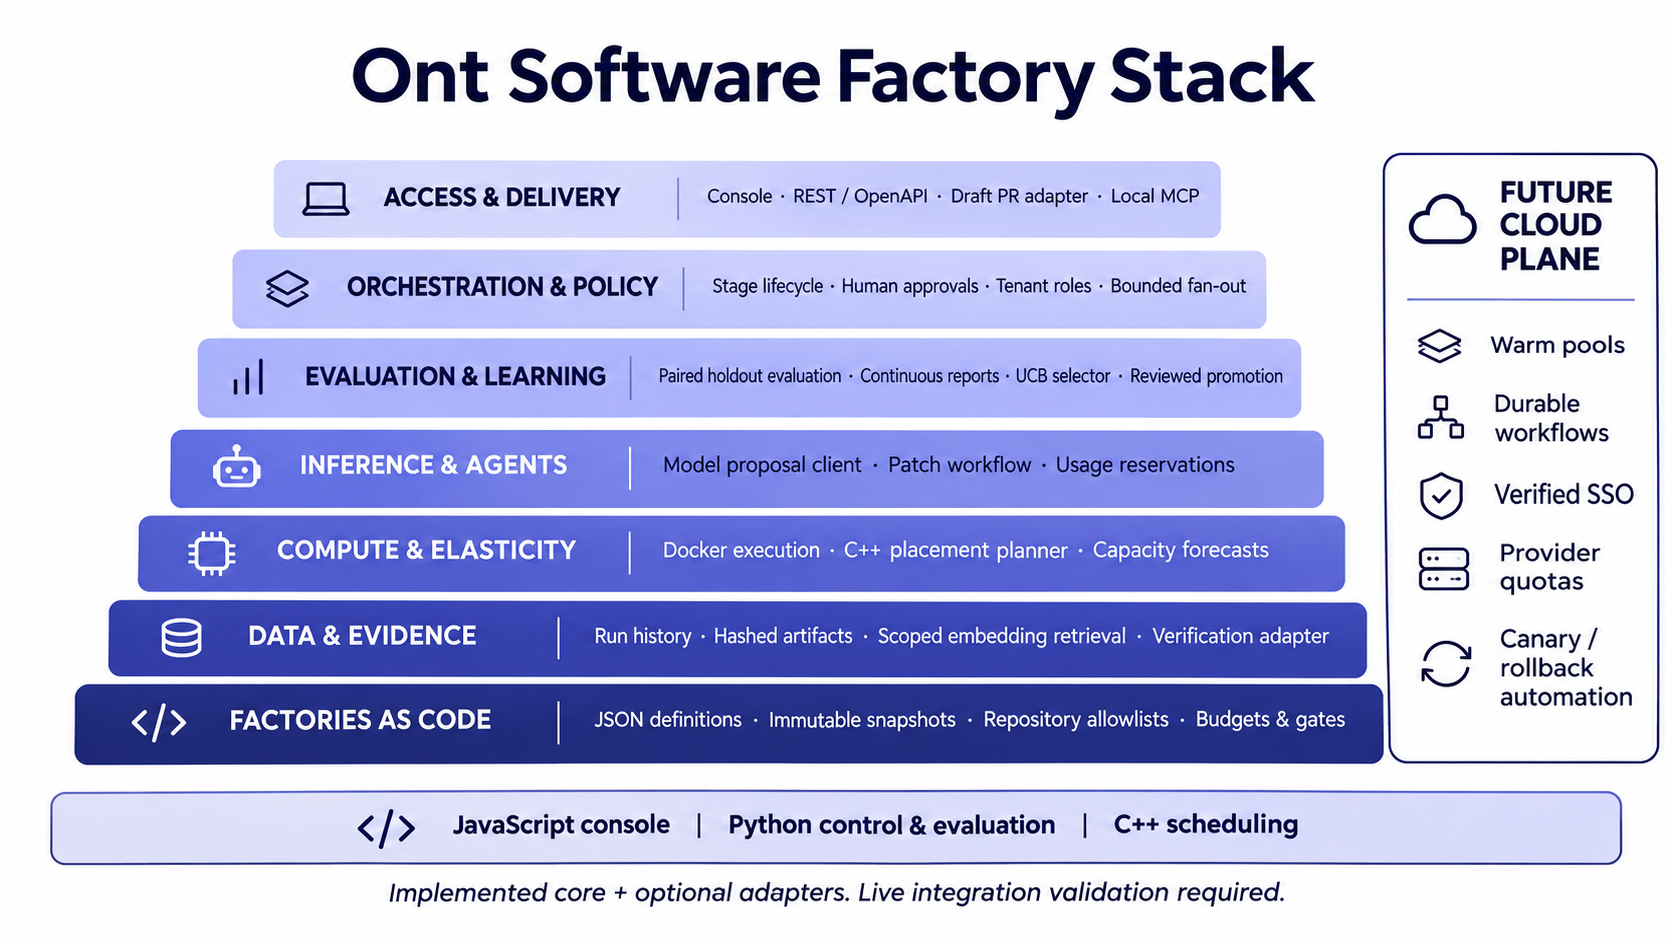
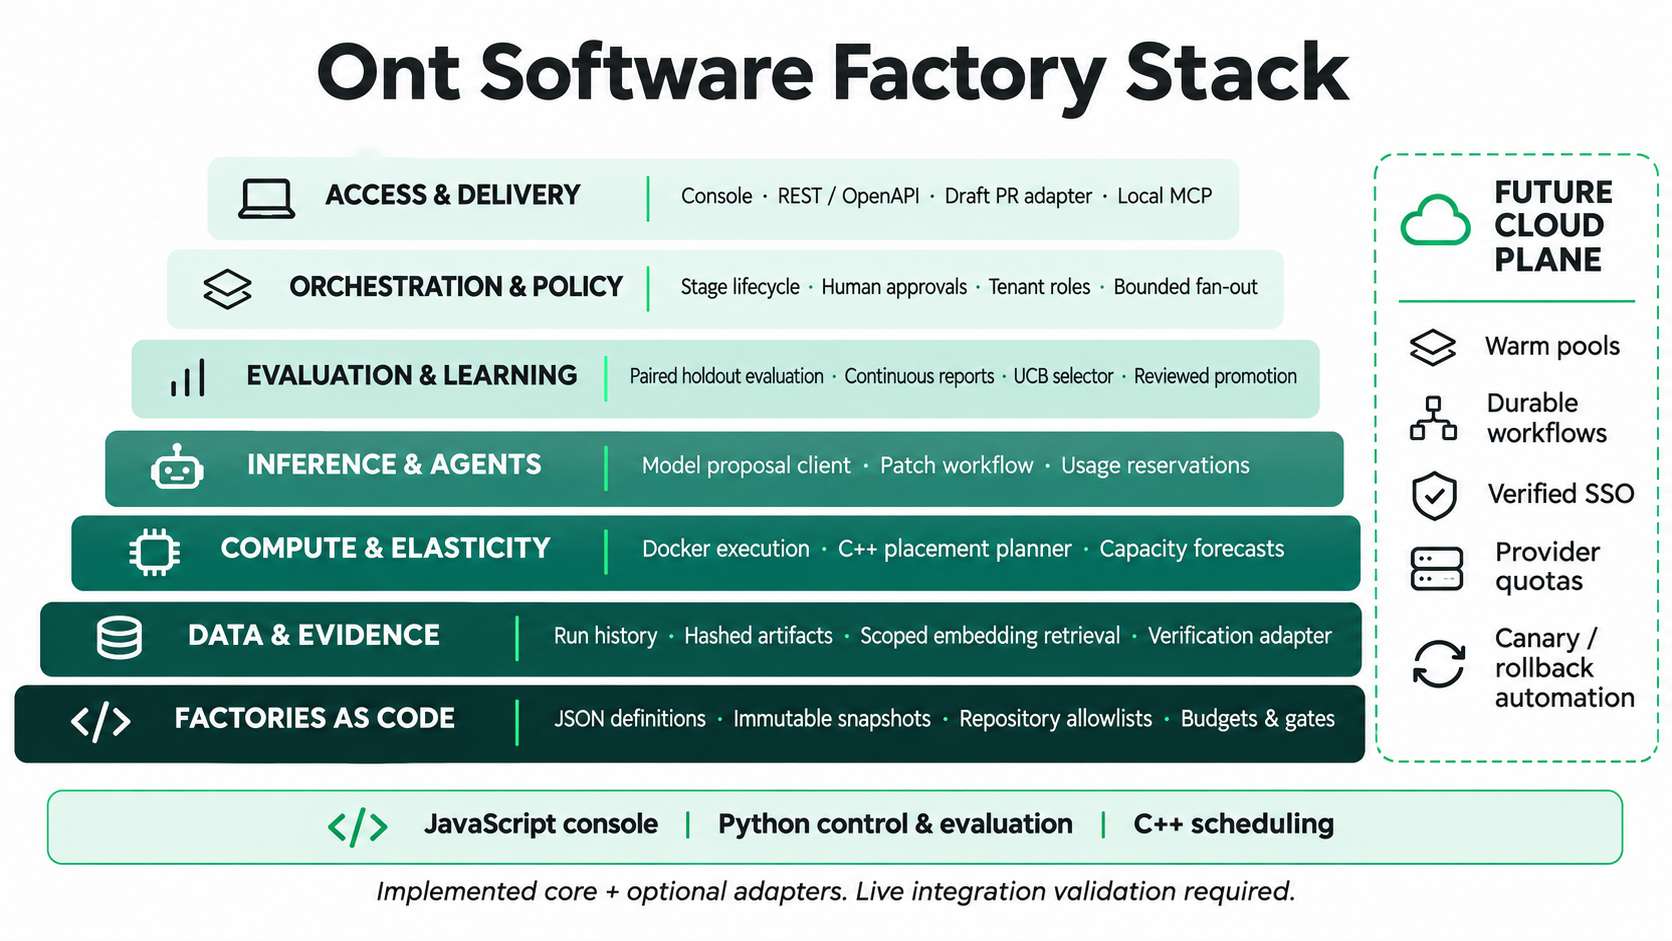
Refine architecture visuals with teal palette and clarify Ont About

diff --git a/scripts/render_architecture.py b/scripts/render_architecture.py
@@ -3,10 +3,10 @@ from pathlib import Path
 from xml.sax.saxutils import escape
 root=Path(__file__).resolve().parents[1]
 boxes=[(50,100,'Operator console','web/index.html + app.js'),(390,100,'Control plane','Auth · policy · review gates'),(730,100,'Persistent evidence','SQLite · events · artifacts'),(50,290,'Execution bridge','External Docker harness'),(390,290,'Factory snapshots','Repository · budget · gates'),(730,290,'Evaluation datasets','Trusted labels required'),(50,480,'Native C++ planner','Placement + bounded scaling'),(390,480,'Continuous evaluator','Paired holdout · regression gates'),(730,480,'Reviewable reports','Hash-addressed · no auto-promotion')]
-parts=['<svg xmlns="http://www.w3.org/2000/svg" width="1080" height="760" viewBox="0 0 1080 760" role="img" aria-labelledby="title desc">','<title id="title">Ont software factory architecture</title><desc id="desc">Implemented console, control plane, storage, execution bridge, configuration, and evaluation loop with planned adapters.</desc>','<rect width="1080" height="760" fill="#111a30"/><style>text{font-family:Arial,sans-serif}.heading{font-size:28px;fill:#fff}.label{font-size:18px;fill:#eef2ff}.sub{font-size:13px;fill:#b3bfda}</style>','<text x="50" y="50" class="heading">Ont · software factory architecture</text>']
+parts=['<svg xmlns="http://www.w3.org/2000/svg" width="1080" height="760" viewBox="0 0 1080 760" role="img" aria-labelledby="title desc">','<title id="title">Ont software factory architecture</title><desc id="desc">Implemented console, control plane, storage, execution bridge, configuration, and evaluation loop with planned adapters.</desc>','<rect width="1080" height="760" fill="#101c1b"/><style>text{font-family:Arial,sans-serif}.heading{font-size:28px;fill:#fff}.label{font-size:18px;fill:#effaf5}.sub{font-size:13px;fill:#abc9bf}</style>','<text x="50" y="50" class="heading">Ont · software factory architecture</text>']
 for x1,y1,x2,y2 in [(330,155,390,155),(670,155,730,155),(190,290,190,210),(530,210,530,290),(870,210,870,290),(870,400,870,480),(330,535,390,535),(670,535,730,535)]:
-    parts.append(f'<path d="M{x1} {y1} L{x2} {y2}" stroke="#8499e8" stroke-width="2"/>')
+    parts.append(f'<path d="M{x1} {y1} L{x2} {y2}" stroke="#55bda2" stroke-width="2"/>')
 for x,y,title,sub in boxes:
-    parts.append(f'<rect x="{x}" y="{y}" width="280" height="110" rx="12" fill="#202e4d" stroke="#566fb1"/><text x="{x+18}" y="{y+40}" class="label">{escape(title)}</text><text x="{x+18}" y="{y+72}" class="sub">{escape(sub)}</text>')
-parts.append('<rect x="50" y="650" width="960" height="70" rx="10" fill="none" stroke="#8499e8" stroke-dasharray="7 5"/><text x="70" y="680" class="label">Planned adapter boundary</text><text x="70" y="704" class="sub">GitHub App · MCP · scoped memory · inference gateway · durable cloud orchestration</text></svg>')
+    parts.append(f'<rect x="{x}" y="{y}" width="280" height="110" rx="12" fill="#193730" stroke="#397e6d"/><text x="{x+18}" y="{y+40}" class="label">{escape(title)}</text><text x="{x+18}" y="{y+72}" class="sub">{escape(sub)}</text>')
+parts.append('<rect x="50" y="650" width="960" height="70" rx="10" fill="none" stroke="#55bda2" stroke-dasharray="7 5"/><text x="70" y="680" class="label">Planned adapter boundary</text><text x="70" y="704" class="sub">GitHub App · MCP · scoped memory · inference gateway · durable cloud orchestration</text></svg>')
 (root/'docs/assets/ont-architecture.svg').write_text(''.join(parts))

diff --git a/README.md b/README.md
@@ -11,9 +11,11 @@
 
 ## About
 
-Ont is an autonomous software factory project for teams building with coding agents. It brings work orders, factory policy, execution evidence, human decisions, and improvement experiments into one inspectable delivery system. Teams can choose their model and harness, retain control of their repositories, and trace how a requested outcome moves toward a reviewed change.
+Ont is a software factory for turning engineering intent into reviewable software changes. It coordinates coding agents, repository work, verification evidence, human approvals, and delivery through one configurable control plane.
 
-The current release provides a persistent control plane, a working operator console, a native scheduling planner, evaluation tools, and optional integration adapters. Live code generation and deployment require configured providers and execution infrastructure; the included demo clearly labels simulated work.
+Built for teams that want to own their development workflow, Ont supports model and harness choice, self-hosted operation, and an inspectable record of each stage. Its goal is to make agent-assisted delivery faster to operate, easier to review, and measurable enough to improve.
+
+The current release includes the operator console, persistent workflows, evaluation tools, a native scheduling planner, and optional integration adapters. Live code generation and deployment require configured providers and execution infrastructure; the demo identifies simulated work explicitly.
 
 Created and maintained by **Bijit Ghosh** under the MIT license.
 
